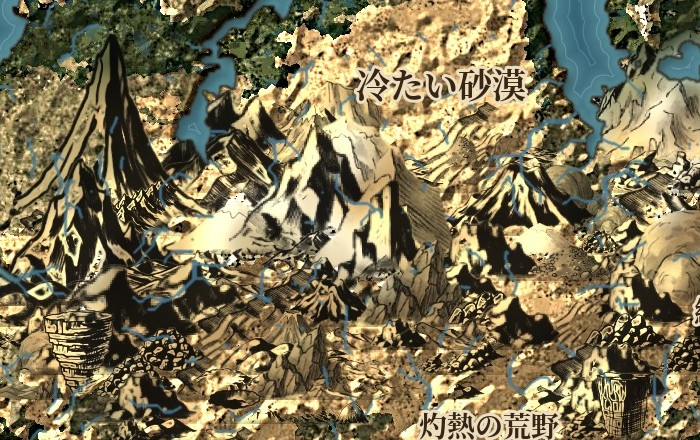
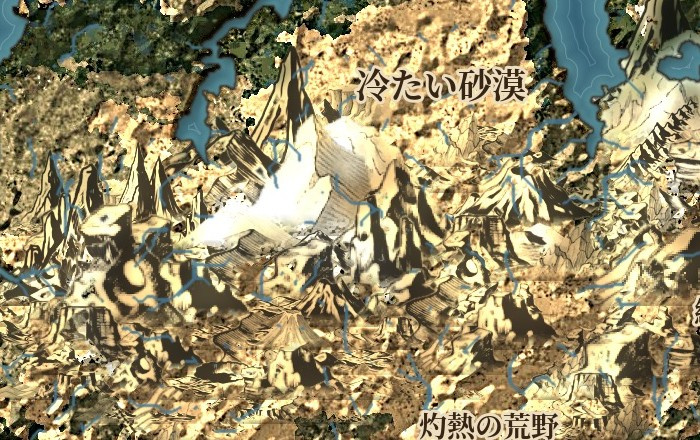
段階16 第4版: 明るさ・不自然な部品除外・すそ野ぼかし
Claude-Session: https://claude.ai/code/session_01NNF75WtqSrNc5QxPaYtfZJ

diff --git a/docs/apps/fantasy-war/mapstyle27.html b/docs/apps/fantasy-war/mapstyle27.html
@@ -15,6 +15,9 @@
 <h2>目視の評価(第2版の評価。第3版は下)</h2>
 <ul><li>良くなった点: 元の線画の線と明暗が見える。外形が地形で変わる。家の記号が消えた。</li>
 <li>まだ悪い点: 丸い岩山・岩のごろごろ・台地が多く選ばれ、山の連なり感が弱い。台地(柱状の塊)が地面から浮いて見える所がある。色は部品の紙色が残り、地面と色が合わない所がある。手前の地形を前に置く処理(⑤)が未実装。山の少ない世界(簡易生成)はほぼ山が無い。</li></ul>
+<h2>第4版(ユーザー「やってみて」)</h2>
+<p>やったこと: ①明るさを上げ、墨の黒を弱めた。②不自然に目立った部品(遺跡風の塔・樽や切り株のような台地・積み重なった崖・丸い岩のごろごろ・細い尖塔など、私の目視で約35個)は選ばない対象にした。③すそ野の足もとのぼかしを広げ(部品の高さの約3割)、地面への移りをなだらかにした。置いた部品数は第3版と同じ(Azgaar174・PWG54・簡易生成39)。</p>
+<ul><li>目視の印象: 全体が明るくなり、地図の色の山脈が連なって見える。切り株や樽のような台地は減った。尖った峰と大きな群れの外形が変わって並ぶ。</li><li>まだ悪い点: Azgaar中央の山脈は細部が密で、絵が重なって潰れて見える所がある。PWGは山が少なくおとなしい。簡易生成は山がほぼ無い。手前の地形を前に置く処理(⑤)は未実装。外した部品の判断は私の目視で、ユーザーの確認前。</li></ul>
 <h2>目視の評価(第3版)</h2>
 <ul><li>良くなった点: 山が地図の色(砂色・緑)になり、浮いた灰色の切り絵感が減った。大小の山が重なり、山脈らしいかたまりができた。線の稜線は無くなり、山の絵だけで山地ができている。</li>
 <li>まだ悪い点: 全体に暗く、墨の黒が濃い所がある。岩の塔(樽のような形の台地)や細い尖塔が目立って不自然な所がある。山脈の縁(すそ野)の移りが急で、山の塊として見える所がある。手前の地形を前に置く処理(⑤)は未実装。</li></ul>

diff --git a/docs/apps/fantasy-war/mapstyle/tools/pipeline/gv/mtn16.py b/docs/apps/fantasy-war/mapstyle/tools/pipeline/gv/mtn16.py
@@ -10,7 +10,8 @@ from scipy import ndimage as ndi
 _HERE = os.path.dirname(os.path.abspath(__file__))
 _FW = os.path.abspath(os.path.join(_HERE, '..', '..', '..', '..'))      # apps/fantasy-war
 _SC = os.path.abspath(os.path.join(_HERE, '..', '..', 'parts_scores.json'))
-CATW = {'岩場・岩塊': 0.35, '台地・メサ': 0.5, '崖・地層': 0.6, '砂丘': 0.5, '火山': 0.6, '火口': 0.3, '草の丘': 0.6}
+BAD = {'h15', 'h28', 'k28', 'k32', 'm26', 'm27', 'h19', 'h21', 'h35', 'k38', 'p25', 'k36', 'm08', 'm09', 'm10', 'm11', 'm12', 'n05', 'n10', 'p16', 'p17', 'h22', 'h16', 'h29', 'h14', 'h32', 'p21', 'p10', 'p19', 'p20', 'k29', 'k33'}   # 不自然に目立った部品(遺跡風の塔・樽形の台地・細い尖塔など)は選ばない
+CATW = {'岩塔・柱': 0.4, '岩場・岩塊': 0.35, '台地・メサ': 0.3, '崖・地層': 0.6, '砂丘': 0.5, '火山': 0.6, '火口': 0.3, '草の丘': 0.6}
 SKIP = {'砂漠の飾り', '混合の連なり', '峡谷'}
 PAPER, INKC = 222.0, 33.0
 
@@ -18,7 +19,7 @@ def _load():
     J = json.load(open(_SC))
     P = []
     for r in J['parts']:
-        if r['cat'] in SKIP: continue
+        if r['cat'] in SKIP or r['id'] in BAD: continue
         fp = os.path.join(_FW, r['img'])
         if not os.path.exists(fp): continue
         im = cv2.imread(fp, cv2.IMREAD_UNCHANGED)
@@ -116,13 +117,13 @@ def paint(img, Hh, land, bio, seed=1, scale=1.0, dens=0.55, hi=50.0, min_region=
         sy, sx = ya - y0, xa - x0; ey, ex = sy + (yb - ya), sx + (xb - xa)
         lum = ts.mean(2)
         tt = np.clip((lum - INKC) / (PAPER - INKC), 0, 1)
-        shade = (0.10 + 1.05 * np.clip((tt - 0.25) / 0.75, 0, 1) ** 1.0 + 0.0 * tt)[..., None]
-        shade = np.where(tt[..., None] < 0.25, 0.10 + 0.5 * tt[..., None], shade)
+        shade = (0.30 + 0.95 * np.clip((tt - 0.20) / 0.80, 0, 1) ** 0.8)[..., None]
+        shade = np.where(tt[..., None] < 0.20, 0.22 + 0.4 * tt[..., None], shade)
         gb = ground[ya:yb, xa:xb]
         col = np.zeros((nh, nw, 3), np.float32)
-        col[sy:ey, sx:ex] = np.clip(gb * shade[sy:ey, sx:ex] * 1.10 + 4, 0, 255)
+        col[sy:ey, sx:ex] = np.clip(gb * shade[sy:ey, sx:ex] * 1.22 + 10, 0, 255)
         # ④足もとのぼかし(地面になじませる)
-        fade = np.ones(nh, np.float32); k = max(2, int(nh * 0.14)); fade[-k:] = np.linspace(1, 0.15, k)
+        fade = np.ones(nh, np.float32); k = max(3, int(nh * 0.30)); fade[-k:] = np.linspace(1, 0.0, k) ** 1.2
         al = (as_ * fade[:, None])[..., None]
         # 影(右下)
         sh = np.zeros((nh, nw), np.float32); cv2.ellipse(sh, (nw // 2 + int(nw * 0.08), nh - 2), (int(nw * 0.5), max(2, int(nh * 0.06))), 0, 0, 360, 1.0, -1)

diff --git a/docs/apps/sekai-hex/design/STATE.md b/docs/apps/sekai-hex/design/STATE.md
@@ -95,6 +95,7 @@
 - 【試作 11-19 点数表】部品177個に、地形の8軸(高さ・険しさ・寒さ・乾燥・湿潤・火山性・浸食台地・なだらか)の点数を私の推論で付けた案(群れの点数と頂点の点数。種類19区分ごとの基準)。試しに4つの地形でコサイン類似度の上位部品を表示。限界: 私の見立て・部品ごとの個別差なし・火山性と浸食台地は世界データに無い・目視。ページ: mapstyle26.html。データ: mapstyle/tools/parts_scores.json。次: ユーザーが点数を確認・修正。
 - 【試作 11-19 段階16】ユーザー「点数表はそのままでいこう」。部品を地形の点数との向きの近さで選び、地形から色を作って置く方式(mtn16.py、run_pipeline --mtn parts)を3つの世界で実行(各約11〜13秒・約600MB・手調整なし)。【ユーザー指摘】絵を置けていない・変な家がある→原因は部品を灰色の明暗に塗り直して線と色を潰したこと、家は都市の仮の記号(今回は外した)。修正版は部品の絵をそのまま貼る。印象(修正後): 線と明暗が見え外形が地形で変わる。悪い: 丸い岩山・台地が多く連なり感が弱い、台地が浮く所あり、紙色が地面と合わない所あり、丸い岩山が多く連なり感が弱い、山が少ない世界はほぼ無し。未実装: ⑤手前の地形を前に置く・形の変更。火山性4%・台地8%は仮の割合。各1枚・目視。ページ: mapstyle27.html。次: 寒さの効きを弱め、連なりの置き方を直す。
 - 【試作 11-19 段階16 第3版 ユーザー指示】「全ての山や稜線はこの絵(部品)で作る。色は元の地図による。絵は大きさを変えて全体をうまい絵に見せる」。実施: 線の稜線をやめ、山も稜線も部品で描く/部品の線と明暗だけ使い色は下の地図から/大きさを高さで約34〜180画素に変える/岩塊・台地・砂丘・火山は点数が高い所だけ選ばれやすく。3つの世界で手調整なし(約8〜13秒・約600MB)。印象: 地図の色になり山脈のかたまりができた。悪い: 全体に暗い、塔・台地が不自然、すそ野の移りが急、⑤未実装。各1枚・目視。ページ: mapstyle27.html。次: 明るさと不自然な部品の選ばれ方を直す。
+- 【試作 11-19 段階16 第4版】明るさを上げ墨を弱め、不自然に目立った部品(遺跡風の塔・樽や切り株形の台地・積み重なった崖・岩のごろごろ・細い尖塔、私の目視で約35個)を選ばない対象にし、すそ野の足もとのぼかしを広げた。印象: 全体が明るく地図の色の山脈が連なって見える。悪い: Azgaar中央は密で潰れる所あり、PWGは山が少なく、簡易生成はほぼ無し、⑤未実装。外した部品の判断はユーザー確認前。各1枚・目視。ページ: mapstyle27.html。次: 密な所の重なり方と⑤。
 - 【未決】ランドマークの表現(種類・数・選び方・絵か立体か)。世界の層の見せ方=分かりやすさ+芸術性の融合(11-16)。
 
 ---
